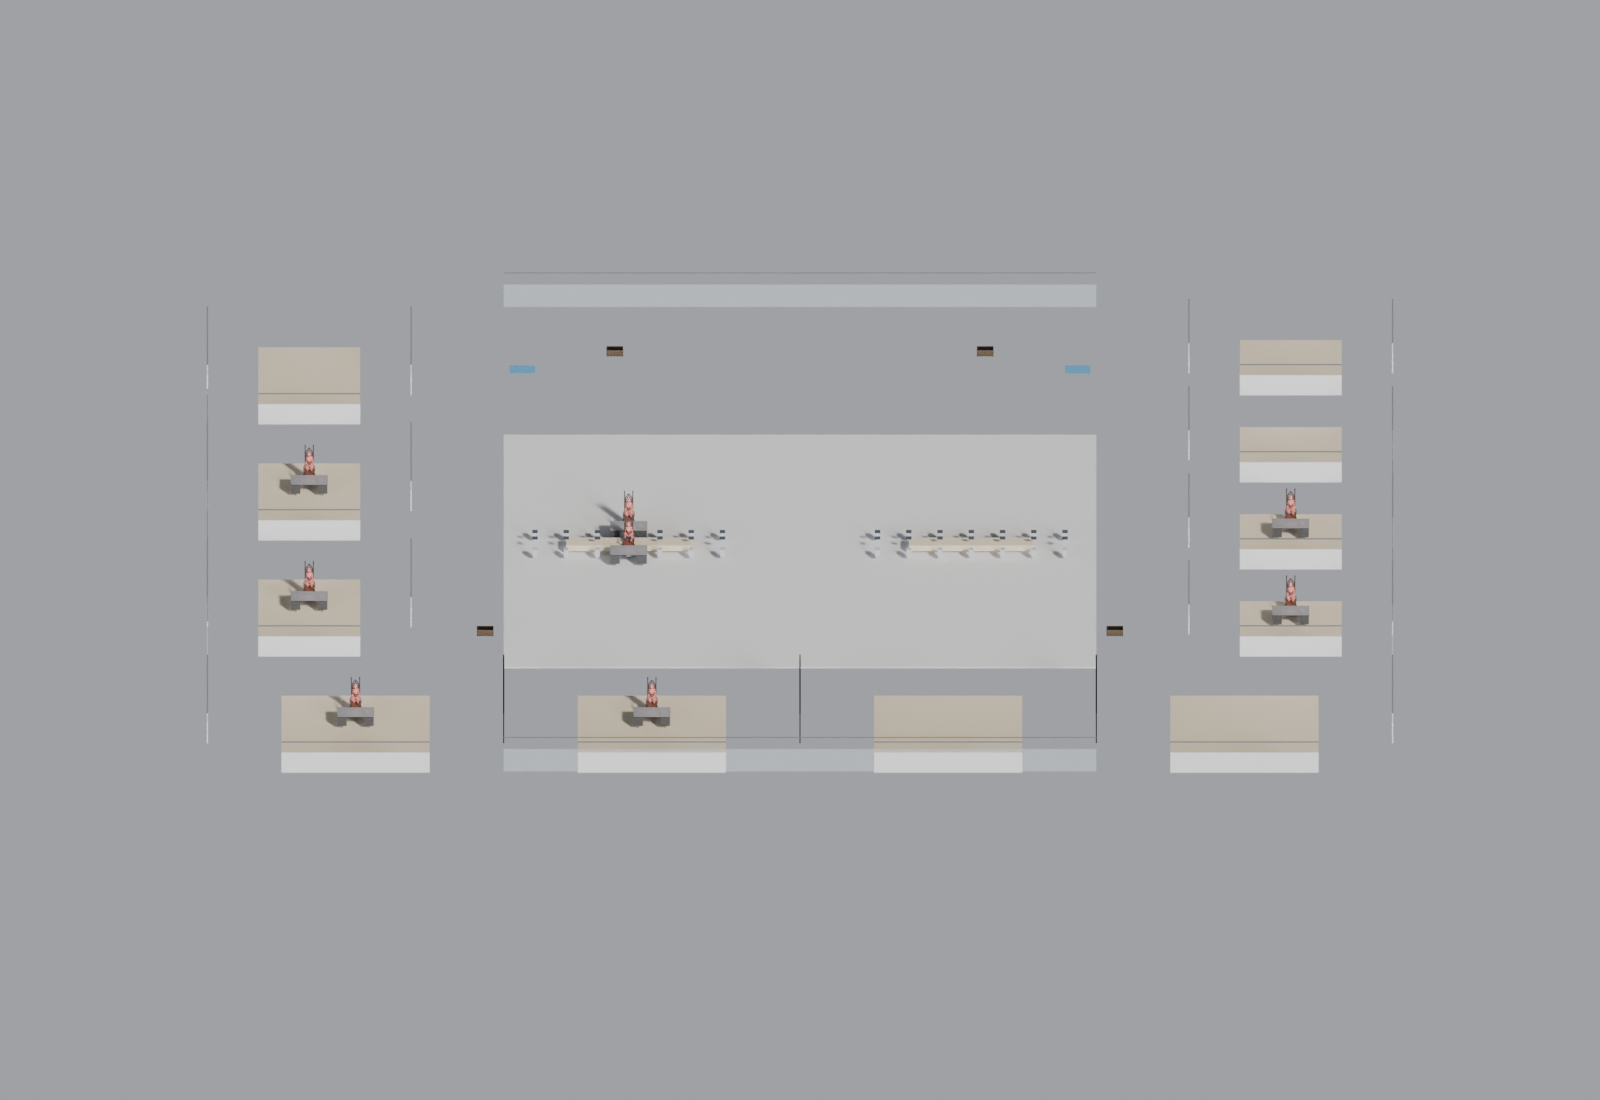
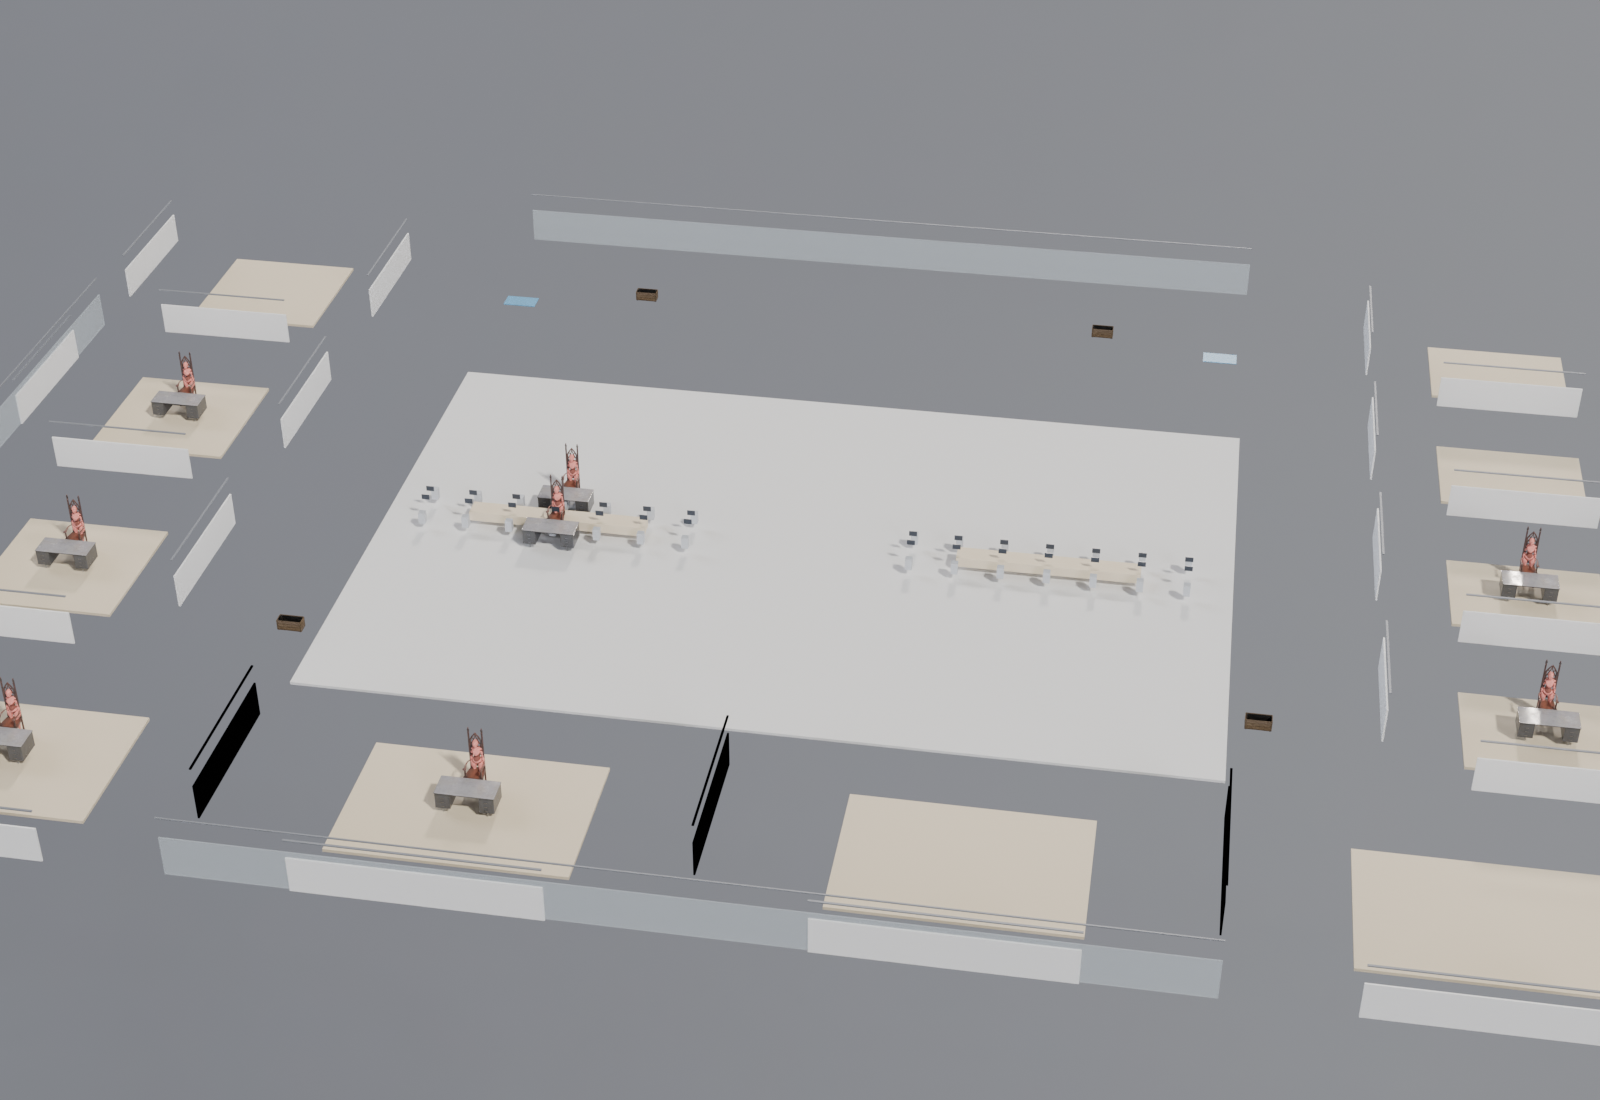
office3d: perspective camera + warm 3-point lighting for the Blender render

diff --git a/scripts/blender/office_render.py b/scripts/blender/office_render.py
@@ -137,30 +137,47 @@ for planter in scene.get("planters", []):
     if not place_glb("planter_box_01.glb", (planter["x"], planter["z"], 0)):
         box("planter", (1.6, 1.6, 0.6), (planter["x"], planter["z"], 0.3), material("plant", (0.24, 0.55, 0.3), 0.9))
 
-# Near-orthographic top-down camera, aimed at the centre via a Track-To target.
-cam_data = bpy.data.cameras.new("cam")
-cam_data.type = "ORTHO"
-cam_data.ortho_scale = max(width, depth) * 1.35
-cam = bpy.data.objects.new("cam", cam_data)
-cam.location = (0, -depth * 1.3, width * 0.62)
-bpy.context.scene.collection.objects.link(cam)
-bpy.context.scene.camera = cam
-
+# Camera + lights aimed at the centre via a Track-To target.
 target = bpy.data.objects.new("target", None)
 target.location = (0, 0, 0)
 bpy.context.scene.collection.objects.link(target)
-track = cam.constraints.new(type="TRACK_TO")
-track.target = target
-track.track_axis = "TRACK_NEGATIVE_Z"
-track.up_axis = "UP_Y"
 
-# World: the real CC0 HDRI for image-based lighting (falls back to a flat sky).
+
+def aim(obj):
+    con = obj.constraints.new(type="TRACK_TO")
+    con.target = target
+    con.track_axis = "TRACK_NEGATIVE_Z"
+    con.up_axis = "UP_Y"
+
+
+def add_sun(name, location, energy, color, angle_deg=6.0):
+    data = bpy.data.lights.new(name, type="SUN")
+    data.energy = energy
+    data.color = color
+    data.angle = math.radians(angle_deg)
+    obj = bpy.data.objects.new(name, data)
+    obj.location = location
+    bpy.context.scene.collection.objects.link(obj)
+    aim(obj)
+    return obj
+
+
+# Perspective camera, 3/4 architectural view.
+cam_data = bpy.data.cameras.new("cam")
+cam_data.lens = 55
+cam = bpy.data.objects.new("cam", cam_data)
+cam.location = (width * 0.2, -depth * 1.7, depth * 1.15)
+bpy.context.scene.collection.objects.link(cam)
+bpy.context.scene.camera = cam
+aim(cam)
+
+# World: soft HDRI ambient (low strength so the 3-point setup reads).
 world = bpy.data.worlds.new("world")
 bpy.context.scene.world = world
 world.use_nodes = True
 nodes = world.node_tree
 bg = nodes.nodes["Background"]
-bg.inputs[1].default_value = 0.5
+bg.inputs[1].default_value = 0.35
 hdri_candidates = [
     os.path.join(assets, "studio_small_08.hdr"),
     os.path.normpath(
@@ -180,14 +197,10 @@ else:
     bg.inputs[0].default_value = (0.9, 0.93, 0.97, 1)
     bg.inputs[1].default_value = 0.6
 
-# A soft key light on top of the HDRI.
-sun = bpy.data.lights.new("sun", type="SUN")
-sun.energy = 3.5
-sun.color = (1.0, 0.95, 0.86)
-sun.angle = math.radians(6)
-sun_obj = bpy.data.objects.new("sun", sun)
-sun_obj.rotation_euler = (math.radians(50), math.radians(10), math.radians(30))
-bpy.context.scene.collection.objects.link(sun_obj)
+# Three-point lighting: warm key, cool fill, warm rim.
+add_sun("key", (width * 0.7, -depth * 0.9, width * 1.0), 3.4, (1.0, 0.95, 0.85), 4)
+add_sun("fill", (-width * 0.9, depth * 0.5, width * 0.6), 1.1, (0.85, 0.90, 1.0), 25)
+add_sun("rim", (0, depth * 1.1, width * 0.5), 1.4, (1.0, 0.90, 0.80), 6)
 
 # Cycles settings (overridable for quick previews).
 prefs = bpy.context.scene
